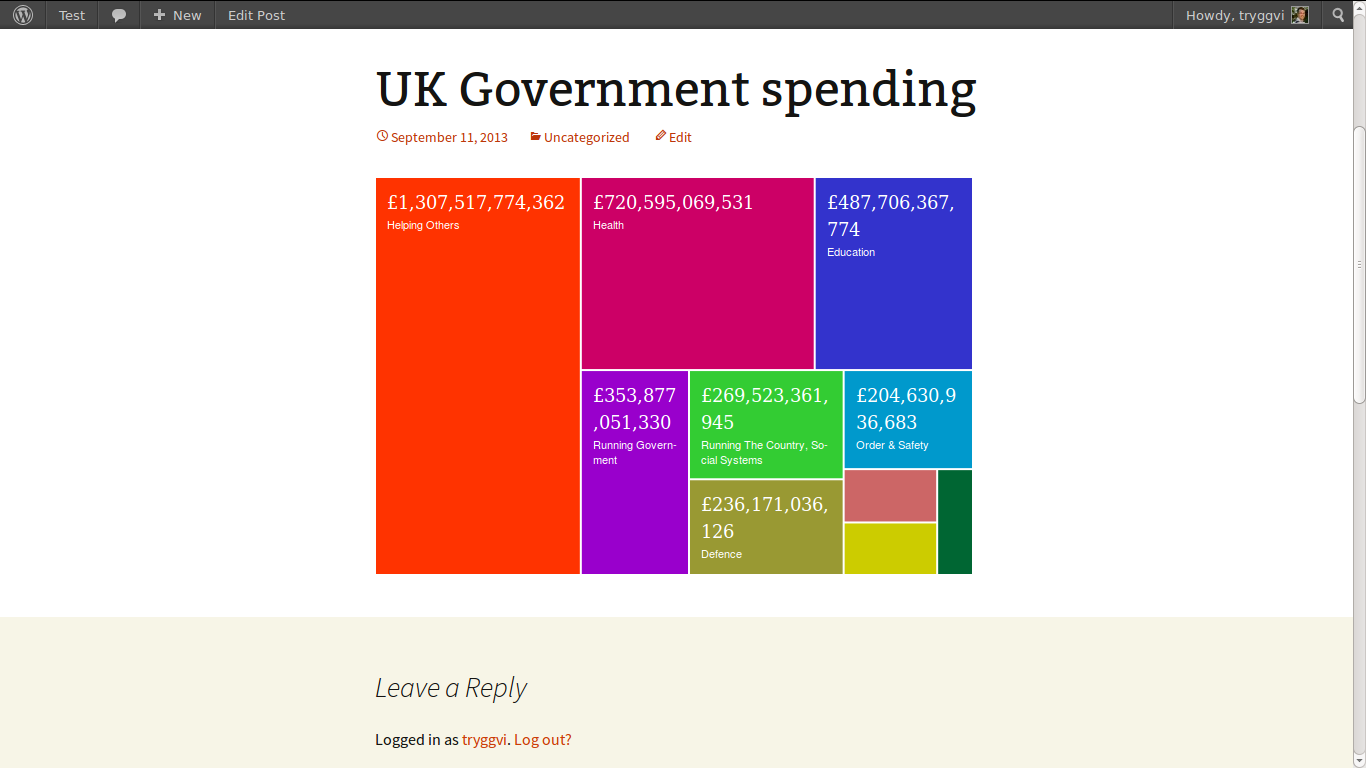
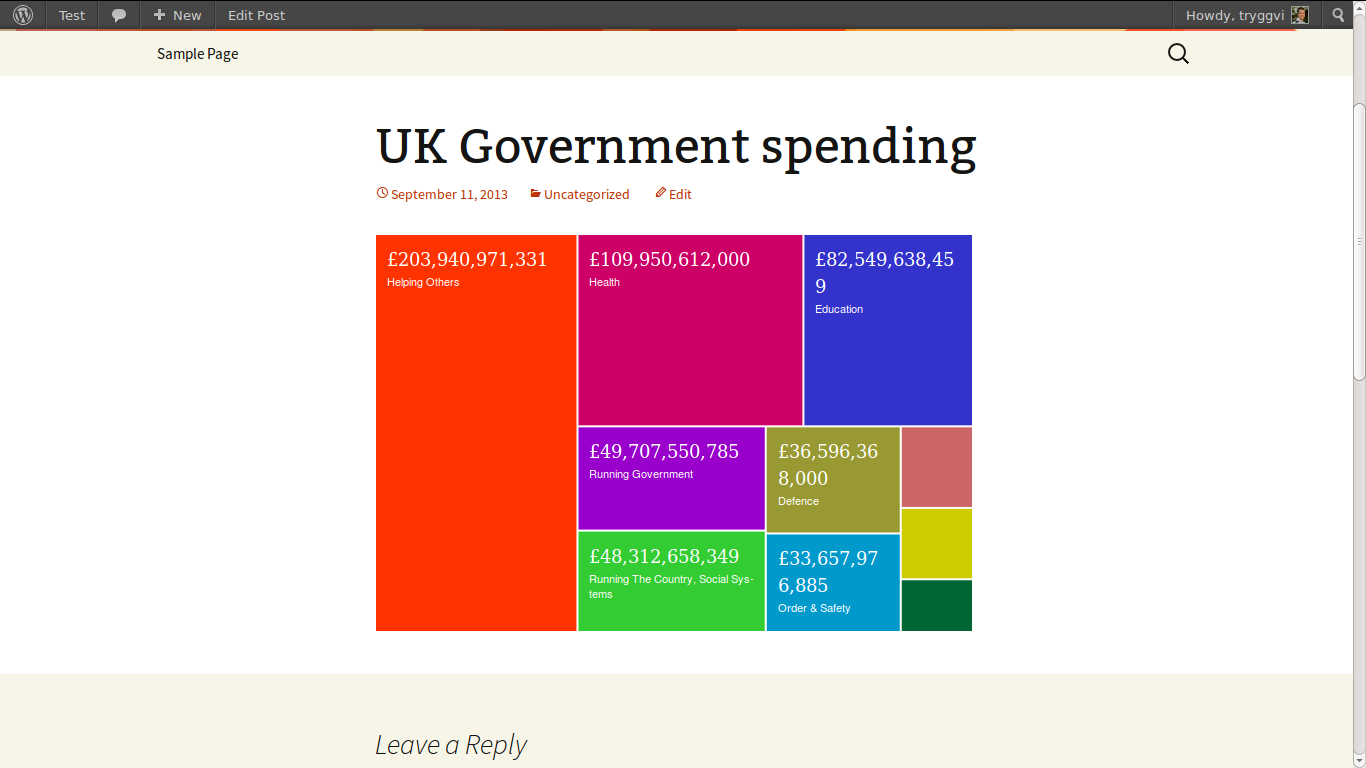
Actually load the year in the visualisation. Update the treemap so that it actually loads the year in the example.

diff --git a/openspending/openspending.php b/openspending/openspending.php
@@ -60,6 +60,7 @@ class OpenSpending {
             'type' => null,
             'dataset' => null,
             'drilldowns' => null,
+            'year' => null,
 	), $atts ) );
 
         // Type, Dataset and Drilldowns must be defined
@@ -69,10 +70,14 @@ class OpenSpending {
         // Set variable that adds style and script to the page/post
         self::$add_style_and_script = true;
 
-        return "<div class=\"{$type}\" " .
-               "data-dataset=\"{$dataset}\" " .
-               "data-drilldowns=\"{$drilldowns}\" >" .
-               "</div>";
+        $div_open = "<div class=\"{$type}\"" .
+                    " data-dataset=\"{$dataset}\"" .
+                    " data-drilldowns=\"{$drilldowns}\"";
+        
+        if ( $year != null)
+            $div_open .= " data-year=\"{$year}\"";
+
+        return $div_open . "></div>";
     }
 
     // Register the stylesheet and javascript we might need to use
